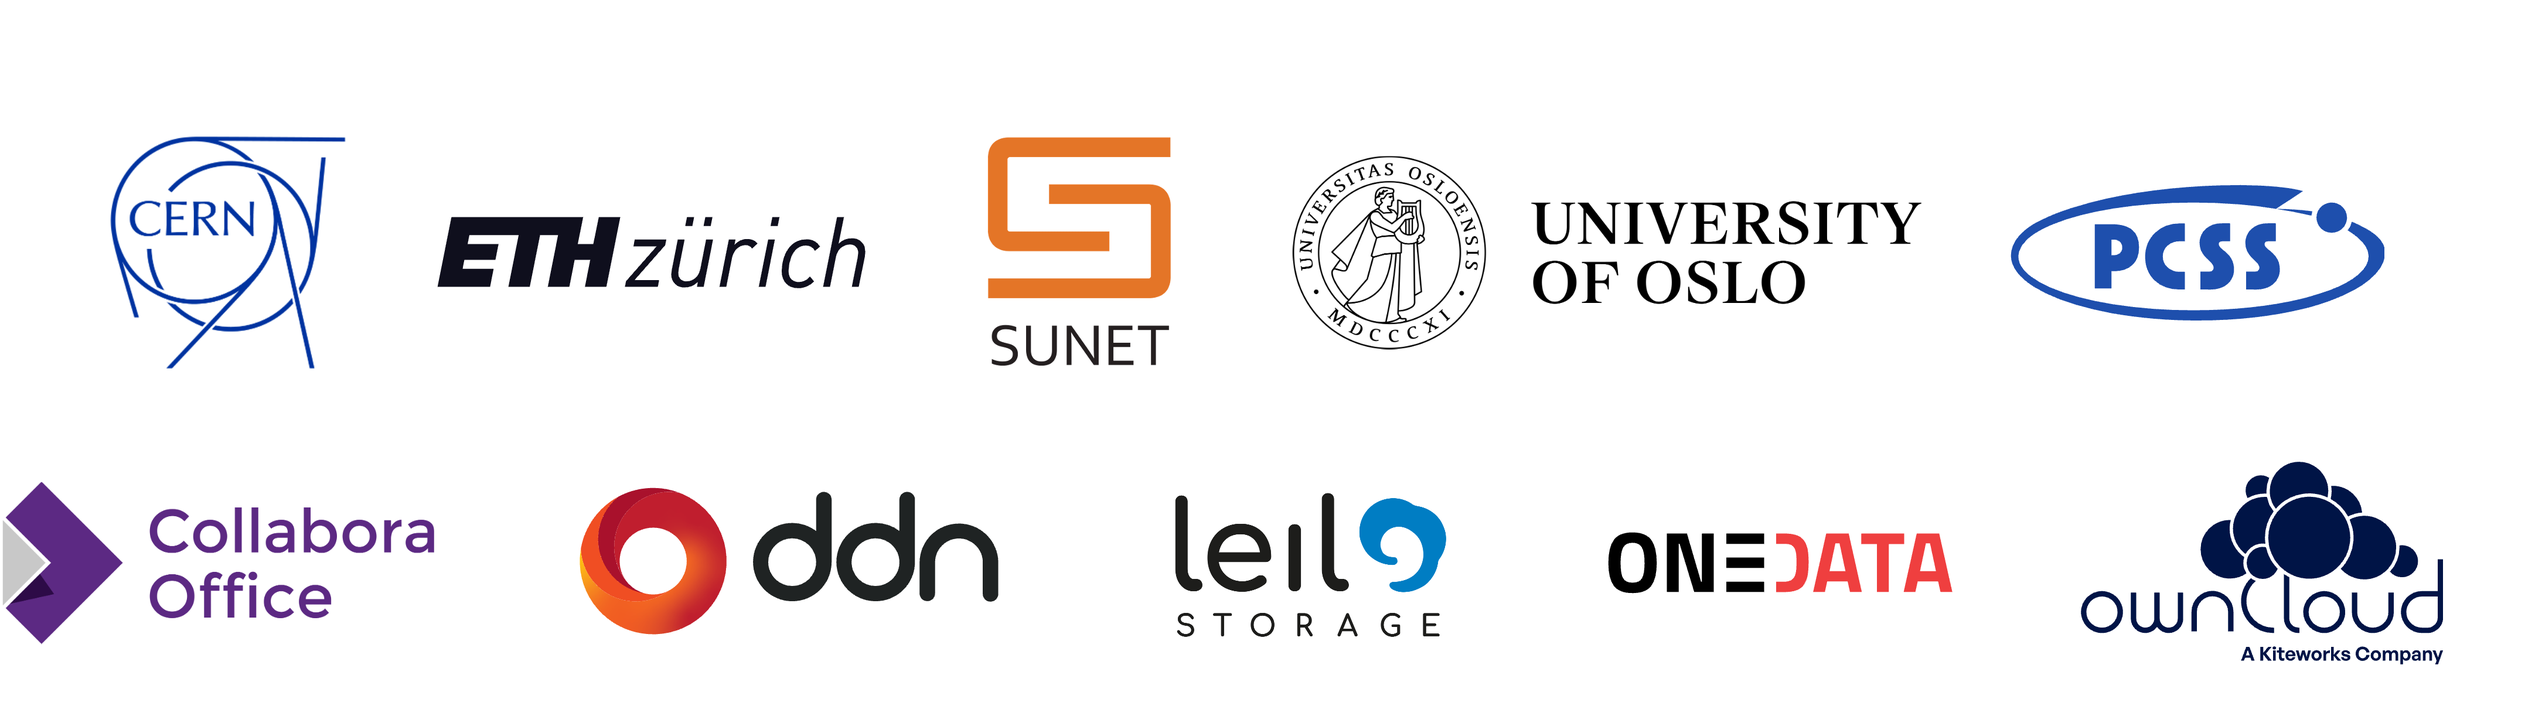
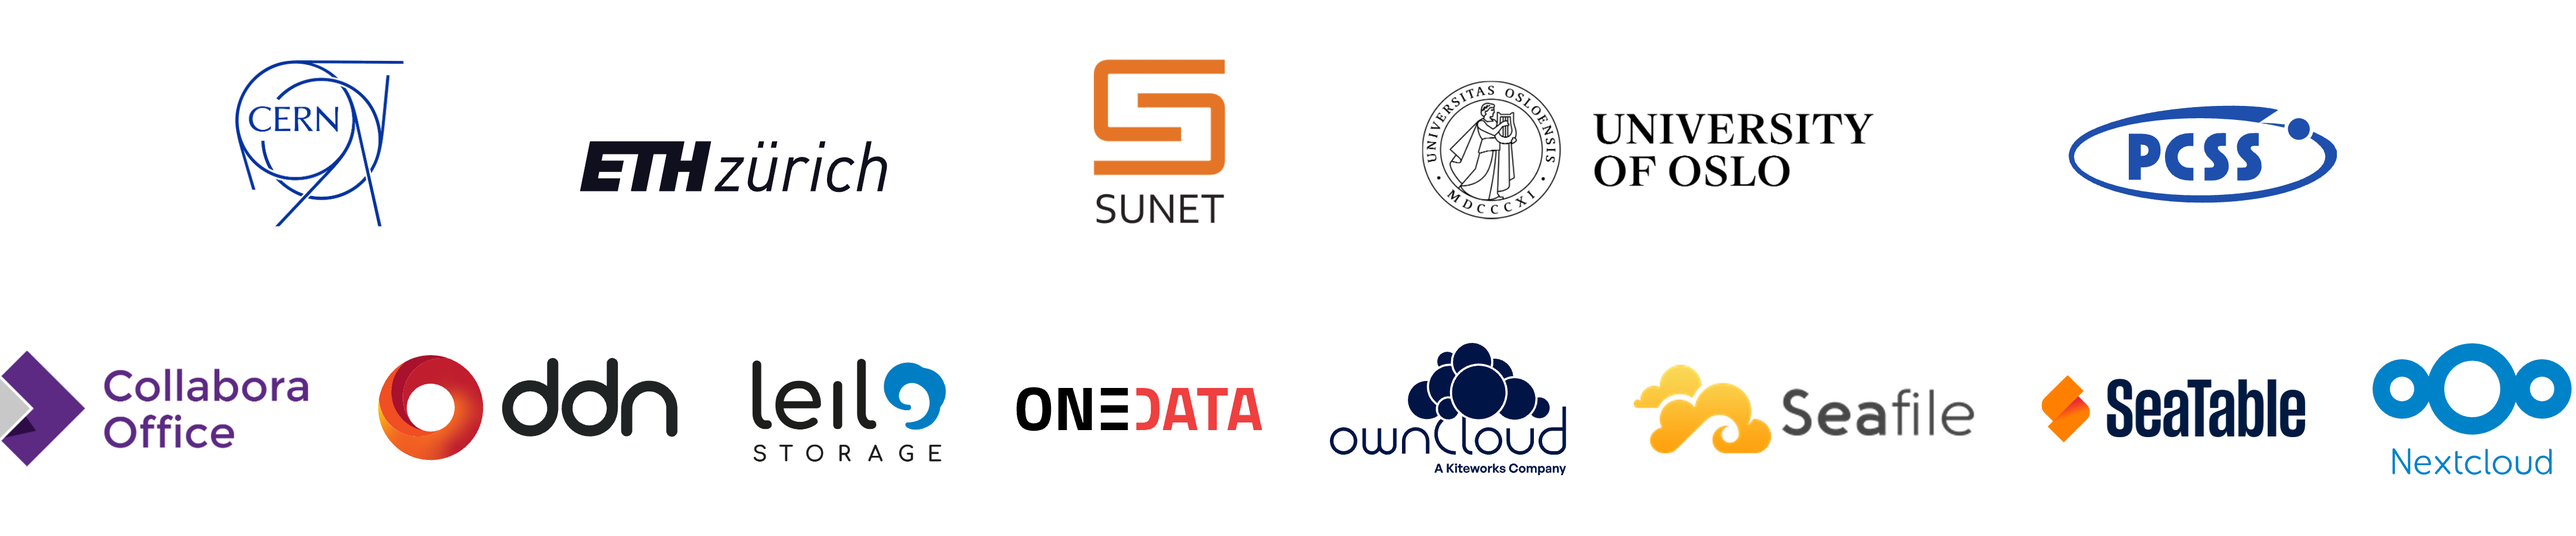
Update sponsors

diff --git a/index.html b/index.html
@@ -61,7 +61,7 @@
 </div>
 
 <div class="container" style="text-align: center;">
-	<img src="/images/sponsors-2026.png" class="img-fluid" alt="2026 Sponsors">
+	<img src="/images/sponsors-2026.png?20260114" class="img-fluid" alt="2026 Sponsors">
 </div>
 <div class="is-clearfix"></div>
 		<div class="Site-content">
